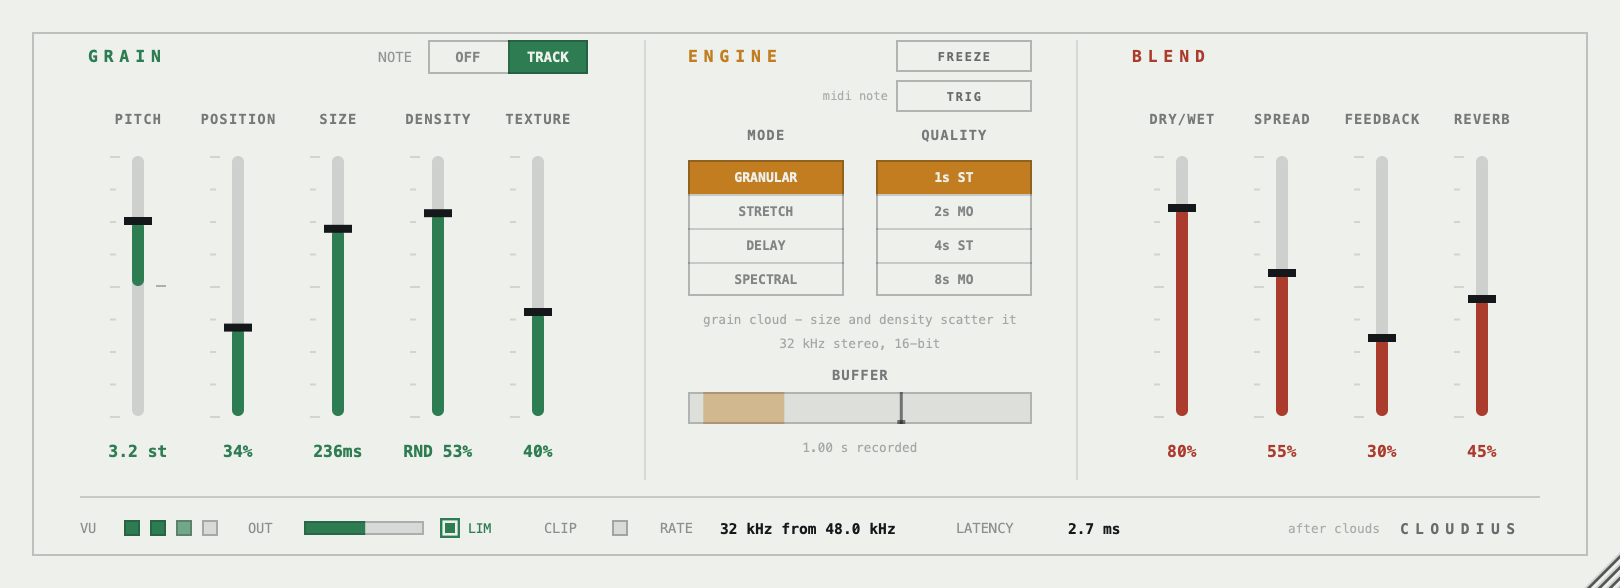
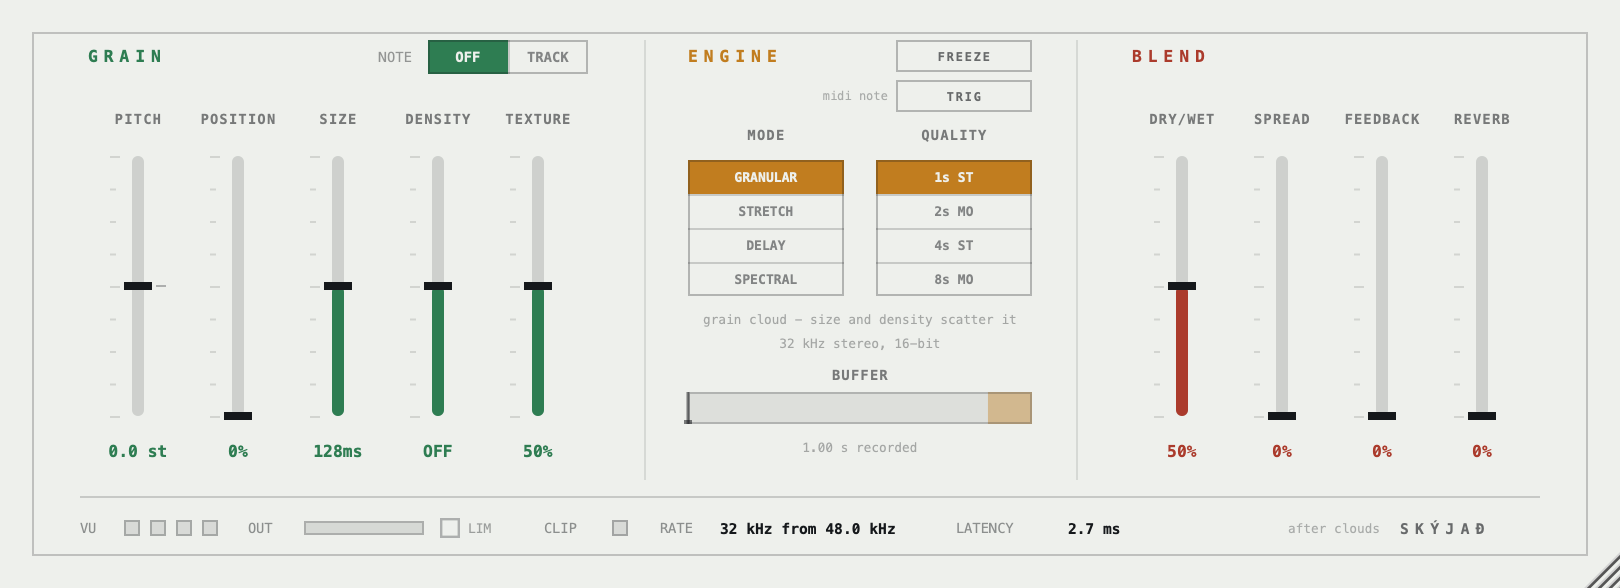
Rename Cloudius to Skyjad
Product filenames (Skyjad.vst3/.component/.app), the panel wordmark,
README, and LICENSE now read Skyjad with the y-acute and eth. Code
identifiers (CloudiusProcessor, CloudiusEditor, the CMake target,
bundle ID, CLOUDIUS_* build vars, web/cloudius.wasm) stay untouched --
no need to change those. Source/CloudsEngine.* is unrelated and was
never touched either: it is named after the underlying Mutable
Instruments Clouds firmware, not the plugin brand.

Fixes getName() to wrap the accented literal in juce::CharPointer_UTF8,
since the juce::String const char* constructor assumes ASCII/Latin-1
and would otherwise mangle it (same bug caught in the Stor, Afbokun,
and Omur renames). Regenerated both docs/panel.png and
docs/panel-delay.png via panel_shot to confirm the wordmark renders
correctly -- design otherwise untouched.

diff --git a/Source/PluginProcessor.h b/Source/PluginProcessor.h
@@ -39,7 +39,9 @@ public:
     juce::AudioProcessorEditor* createEditor() override;
     bool hasEditor() const override { return true; }
 
-    const juce::String getName() const override { return "Cloudius"; }
+    /* juce::String's `const char*` ctor assumes ASCII/Latin-1, not UTF-8 — an
+       accented literal needs CharPointer_UTF8 or it silently mangles. */
+    const juce::String getName() const override { return juce::CharPointer_UTF8 ("Skýjað"); }
     bool acceptsMidi() const override { return true; }
     bool producesMidi() const override { return false; }
     bool isMidiEffect() const override { return false; }

diff --git a/Source/PluginEditor.cpp b/Source/PluginEditor.cpp
@@ -376,7 +376,7 @@ void CloudiusEditor::paint (juce::Graphics& g)
         /* Bottom-right corner: the credit, then the mark. */
         text (g, "after clouds", { 606.0f, y - 7.0f, 84.0f, 14.0f }, 7.4f, ink (0.32f),
               juce::Justification::right, false);
-        tracked (g, "CLOUDIUS", { contentR - 70.0f, y - 6.0f, 70.0f, 12.0f }, 8.5f,
+        tracked (g, juce::CharPointer_UTF8 ("SKÝJAÐ"), { contentR - 70.0f, y - 6.0f, 70.0f, 12.0f }, 8.5f,
                  ink (0.62f), 3.2f);
     }
 }

diff --git a/README.md b/README.md
@@ -1,4 +1,4 @@
-# Cloudius
+# Skýjað
 
 A VST3 / AU / standalone build of the Mutable Instruments **Clouds** granular
 processor, running the module's own firmware DSP rather than a re-implementation
@@ -19,17 +19,17 @@ latches and a switch — 810 x 294, resizable on a fixed aspect. Pitch is a
 bipolar fader rather than a different shape, which is what lets every column
 start on the same line.
 
-![Cloudius panel](docs/panel.png)
+![Skýjað panel](docs/panel.png)
 
 *Granular mode, with the output limiter on — the checkbox beside the OUT meter
 lights the meter when it is guarding the output. Frozen looping delay below:
 the recording head greys out in the buffer band and Freeze lights.*
 
-![Cloudius panel, looping delay frozen](docs/panel-delay.png)
+![Skýjað panel, looping delay frozen](docs/panel-delay.png)
 
 ## Install
 
-Prebuilt binaries are on the [Releases](https://github.com/SungamMagnus/cloudius/releases)
+Prebuilt binaries are on the [Releases](https://github.com/SungamMagnus/skyjad/releases)
 page. macOS universal (Apple Silicon and Intel), macOS 11 or later — there is
 no Windows or Linux build.
 
@@ -48,8 +48,8 @@ refuses to load the plug-in — usually **silently**, so it simply never appears
 in your host and nothing explains why. Run this once after installing:
 
 ```sh
-xattr -dr com.apple.quarantine ~/Library/Audio/Plug-Ins/VST3/Cloudius.vst3
-xattr -dr com.apple.quarantine ~/Library/Audio/Plug-Ins/Components/Cloudius.component
+xattr -dr com.apple.quarantine ~/Library/Audio/Plug-Ins/VST3/Skýjað.vst3
+xattr -dr com.apple.quarantine ~/Library/Audio/Plug-Ins/Components/Skýjað.component
 ```
 
 Then restart your host and rescan.
@@ -72,7 +72,7 @@ successful build. On macOS the result is a universal `arm64;x86_64` binary —
 hosts silently skip, with no error to explain it. Worth checking after any build:
 
 ```bash
-lipo -archs ~/Library/Audio/Plug-Ins/VST3/Cloudius.vst3/Contents/MacOS/Cloudius
+lipo -archs ~/Library/Audio/Plug-Ins/VST3/Skýjað.vst3/Contents/MacOS/Skýjað
 ```
 
 It must print `x86_64 arm64`.
@@ -158,5 +158,5 @@ the factory test mode — all of them hardware.
 
 ## Licence
 
-MIT. The DSP is Émilie Gillet's; see `LICENSE`. Cloudius is not a Mutable
+MIT. The DSP is Émilie Gillet's; see `LICENSE`. Skýjað is not a Mutable
 Instruments product and is not affiliated with or endorsed by them.
